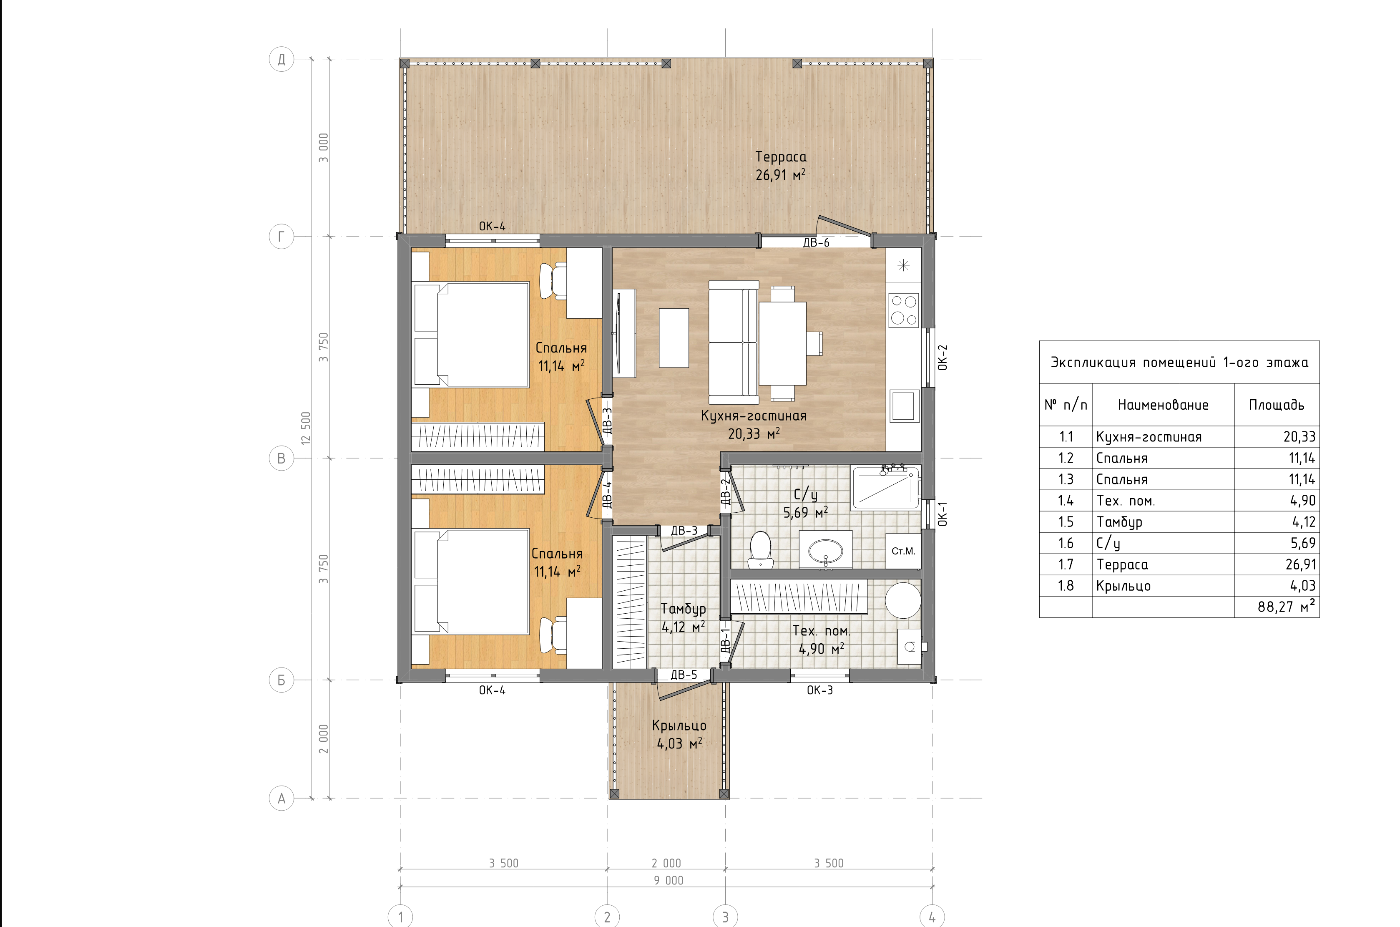
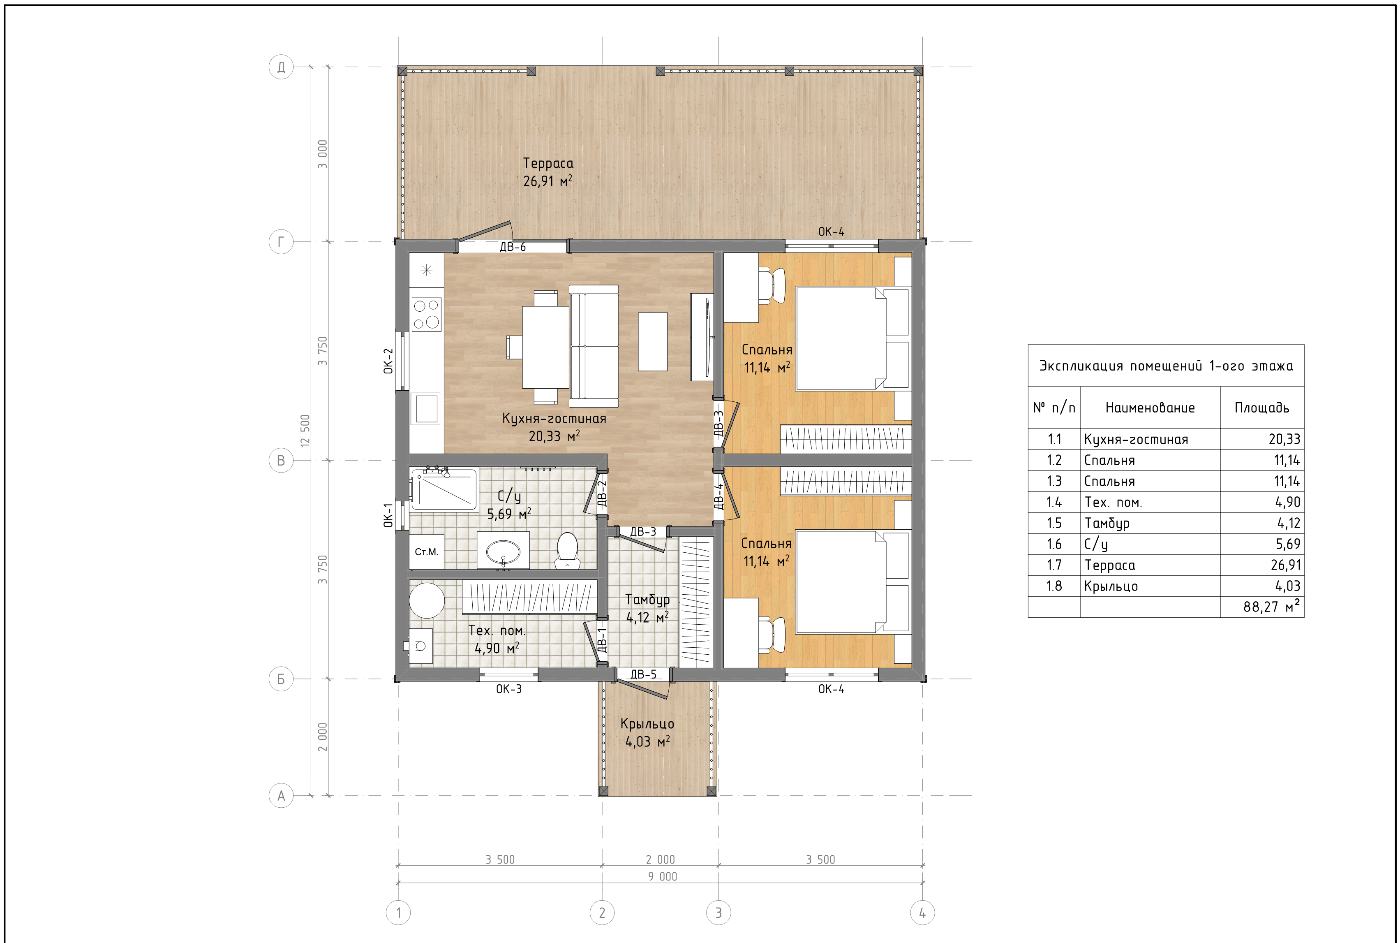
Fix mirrored floor plans for «м»-variant cards (75м/90м)
Практик 75/90 and their «м» variants are mirrored layouts (bedrooms on
opposite sides), not the same plan reused. Re-extracted the correct
floor plan for each from the matching su-слева/su-справа CAD source and
gave 75м/90м their own gallery entries so each card shows its own real
plan instead of sharing one with the base model.

diff --git a/public/js/script.js b/public/js/script.js
@@ -23,6 +23,28 @@ const GALLERIES = {
     { src: 'images/c90_section1.png', caption: 'Разрез 1–1 — высоты от пола до потолка' },
     { src: 'images/c90_section2.png', caption: 'Разрез 2–2 — высоты от пола до потолка' },
   ],
+  '75m': [
+    { src: 'images/practik-75-exterior.png', caption: 'Внешний вид' },
+    { src: 'images/practik-75-exterior2.png', caption: 'Внешний вид — вид с другого ракурса' },
+    { src: 'images/practik-75m-plan.png', caption: 'Планировка с мебелью и площадью каждой комнаты' },
+    { src: 'images/c75_facade1.png', caption: 'Фасад в осях 1–4' },
+    { src: 'images/c75_facade2.png', caption: 'Фасад в осях А–Д' },
+    { src: 'images/c75_facade3.png', caption: 'Фасад в осях 4–1' },
+    { src: 'images/c75_facade4.png', caption: 'Фасад в осях Д–А' },
+    { src: 'images/c75_section1.png', caption: 'Разрез 1–1 — высоты от пола до потолка' },
+    { src: 'images/c75_section2.png', caption: 'Разрез 2–2 — высоты от пола до потолка' },
+  ],
+  '90m': [
+    { src: 'images/practik-90-exterior.png', caption: 'Внешний вид' },
+    { src: 'images/practik-90-exterior2.png', caption: 'Внешний вид — вид с другого ракурса' },
+    { src: 'images/practik-90m-plan.png', caption: 'Планировка с мебелью и площадью каждой комнаты' },
+    { src: 'images/c90_facade1.png', caption: 'Фасад в осях 1–4' },
+    { src: 'images/c90_facade2.png', caption: 'Фасад в осях А–Д' },
+    { src: 'images/c90_facade3.png', caption: 'Фасад в осях 4–1' },
+    { src: 'images/c90_facade4.png', caption: 'Фасад в осях Д–А' },
+    { src: 'images/c90_section1.png', caption: 'Разрез 1–1 — высоты от пола до потолка' },
+    { src: 'images/c90_section2.png', caption: 'Разрез 2–2 — высоты от пола до потолка' },
+  ],
 };
 
 const lightbox = document.getElementById('lightbox');

diff --git a/public/index.html b/public/index.html
@@ -74,8 +74,8 @@
         </article>
 
         <article class="house-card" data-project="Практик 75м">
-          <div class="house-photo house-photo-plan js-open-gallery" data-model="75" role="button" tabindex="0" aria-label="Смотреть все фото и планировку «Практик 75»">
-            <img src="images/practik-75-plan.png" alt="Дом «Практик 75» — планировка с мебелью" loading="lazy">
+          <div class="house-photo house-photo-plan js-open-gallery" data-model="75m" role="button" tabindex="0" aria-label="Смотреть все фото и планировку «Практик 75м»">
+            <img src="images/practik-75m-plan.png" alt="Дом «Практик 75м» — планировка с мебелью" loading="lazy">
             <span class="house-photo-hint">🔍 Все фото и планировка</span>
           </div>
           <div class="house-body">
@@ -108,8 +108,8 @@
         </article>
 
         <article class="house-card" data-project="Практик 90м">
-          <div class="house-photo house-photo-plan js-open-gallery" data-model="90" role="button" tabindex="0" aria-label="Смотреть все фото и планировку «Практик 90»">
-            <img src="images/practik-90-plan.png" alt="Дом «Практик 90» — планировка с мебелью" loading="lazy">
+          <div class="house-photo house-photo-plan js-open-gallery" data-model="90m" role="button" tabindex="0" aria-label="Смотреть все фото и планировку «Практик 90м»">
+            <img src="images/practik-90m-plan.png" alt="Дом «Практик 90м» — планировка с мебелью" loading="lazy">
             <span class="house-photo-hint">🔍 Все фото и планировка</span>
           </div>
           <div class="house-body">